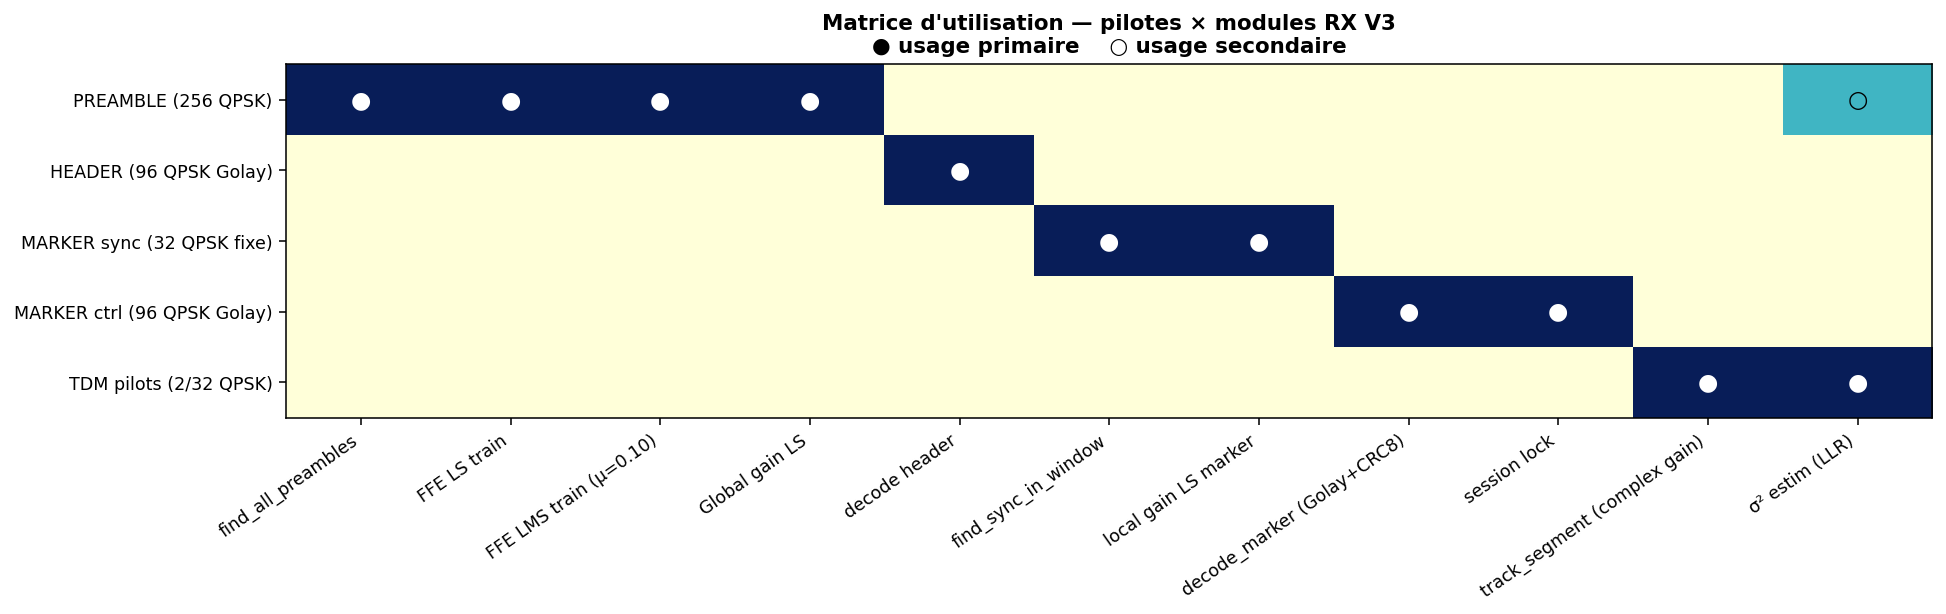
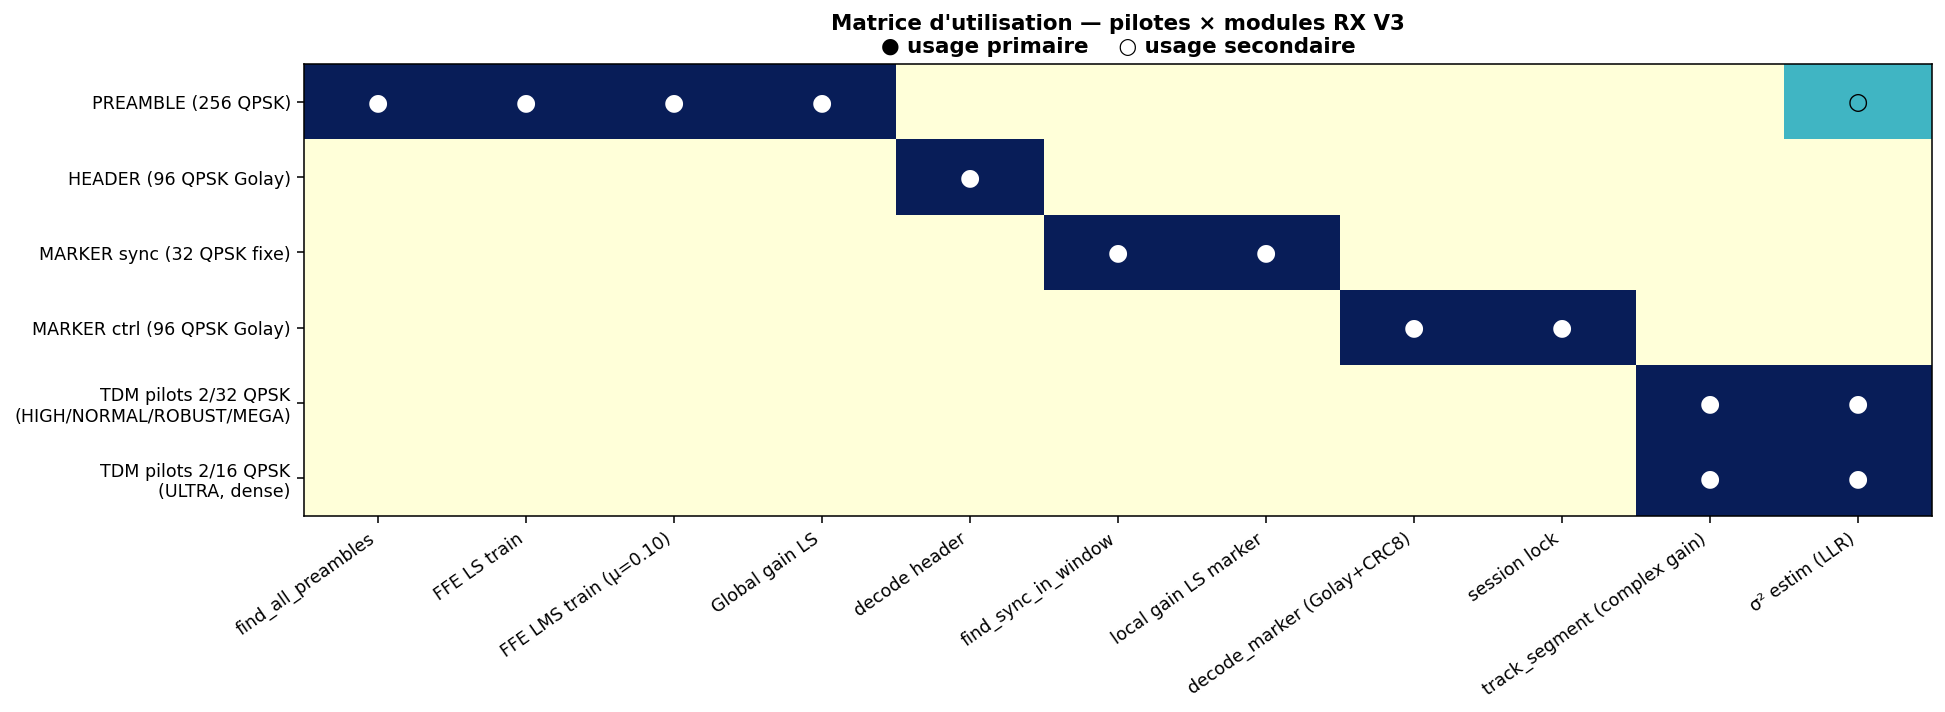
Doc v3 : débits modes corrigés + structure trame ULTRA (pilotes 2/16)
- Table débits HTML réalignée sur profile.rs courant :
  ULTRA 500 Bd QPSK 1/2 pilotes 2/16 (était 600 Bd),
  ROBUST 1000 Bd QPSK 1/2 (était 900 Bd 8-PSK),
  NORMAL 1500 Bd 8-PSK 1/2 (était 1200 Bd 16-APSK),
  HIGH 1500 Bd 16-APSK 3/4, MEGA 1600 Bd eff (τ=30/32) 16-APSK 3/4.
- Nouvelle section 2.2 "cas particulier ULTRA" : pourquoi le motif
  pilote est densifié (68 ms à 500 Bd sinon, drift sub-Nyquist),
  diagramme ASCII de la trame ULTRA, overhead 88.9 % vs 94.1 %.
- Callout sur le léger biais FTN de net_bitrate() (sous-estime MEGA
  de ~12 %, impact : barre de progression GUI uniquement).
- plot_pilots_matrix étendu : ajout d'une ligne dédiée pour le motif
  ULTRA dense, PNG régénéré.

Changed region(s): [[0.0, 0.0, 1.0, 0.9593], [0.8946, 0.1857, 1.0, 0.2476]]

diff --git a/docs/v3_architecture.html b/docs/v3_architecture.html
@@ -281,7 +281,7 @@
             <td><span class="swatch" style="background:#2bbfaf"></span><strong>TDM pilots</strong></td>
             <td>2 syms<br>par groupe de 32</td>
             <td>QPSK<br>cycle π/2</td>
-            <td>Séquence connue continue sur tout le segment. Insérés tous les <code>D_SYMS=32</code> data-syms.</td>
+            <td>Séquence connue continue sur tout le segment. Insérés tous les <code>d_syms=32</code> data-syms en HIGH/NORMAL/ROBUST/MEGA, et tous les <code>d_syms=16</code> en <strong>ULTRA</strong> (pilotes densifiés, voir §2.2).</td>
         </tr>
     </tbody>
 </table>
@@ -367,26 +367,45 @@
     config)</code> traite l'ensemble.
 </div>
 
-<p>Les autres profils varient uniquement <strong>data+meta</strong> :</p>
+<p>Les autres profils varient <strong>data+meta</strong> et, pour ULTRA seul,
+    le motif pilote :</p>
 
 <table>
     <thead>
         <tr>
             <th>Profil</th>
-            <th>Symbol rate</th>
+            <th>Symbol rate effectif</th>
             <th>Constellation data</th>
             <th>LDPC rate</th>
+            <th>Pilotes (D/P)</th>
             <th>Débit utile data</th>
         </tr>
     </thead>
     <tbody>
-        <tr><td>HIGH</td><td>1500 Bd</td><td>16-APSK</td><td>3/4</td><td>4500 b/s</td></tr>
-        <tr><td>NORMAL</td><td>1200 Bd</td><td>16-APSK</td><td>2/3</td><td>3200 b/s</td></tr>
-        <tr><td>ROBUST</td><td>900 Bd</td><td>8-PSK</td><td>1/2</td><td>1350 b/s</td></tr>
-        <tr><td>ULTRA</td><td>600 Bd</td><td>QPSK</td><td>1/2</td><td>600 b/s</td></tr>
-        <tr><td>MEGA (FTN)</td><td>1600 Bd (τ=30/32)</td><td>16-APSK</td><td>3/4</td><td>~4800 b/s</td></tr>
+        <tr><td>ULTRA</td><td>500 Bd</td><td>QPSK</td><td>1/2</td><td><strong>16/2</strong> dense</td><td>444 b/s</td></tr>
+        <tr><td>ROBUST</td><td>1000 Bd</td><td>QPSK</td><td>1/2</td><td>32/2</td><td>941 b/s</td></tr>
+        <tr><td>NORMAL</td><td>1500 Bd</td><td>8-PSK</td><td>1/2</td><td>32/2</td><td>2117 b/s</td></tr>
+        <tr><td>HIGH</td><td>1500 Bd</td><td>16-APSK</td><td>3/4</td><td>32/2</td><td>4234 b/s</td></tr>
+        <tr><td>MEGA (FTN)</td><td>1600 Bd (Rs=1500, τ=30/32)</td><td>16-APSK</td><td>3/4</td><td>32/2</td><td>4517 b/s</td></tr>
     </tbody>
 </table>
+
+<p>
+    Formule : <code>Débit utile = Rs<sub>eff</sub> × bits/sym × R<sub>LDPC</sub>
+    × D/(D+P)</code>. Pour MEGA, <code>Rs<sub>eff</sub> = Rs/τ = 1500 / (30/32) =
+    1600&nbsp;sps</code> car la FTN espace les symboles de <code>pitch=30</code>
+    samples (au lieu de 32) à <code>sps=32</code> — la bande RRC reste celle de
+    1500 Bd, on dense au-dessus de Nyquist (ISI rattrapée par FSE+DD-PLL côté
+    RX).
+</p>
+
+<div class="callout">
+    <strong>Note :</strong> la fonction Rust <code>ModemConfig::net_bitrate()</code>
+    multiplie par <code>τ</code> (au lieu de diviser) — elle sous-estime donc
+    MEGA d'environ 12 % (3969 b/s reportés vs 4517 b/s physiques). Utilisée
+    pour la barre de progression GUI uniquement, l'écart se traduit par une
+    durée annoncée légèrement plus longue que la réalité.
+</div>
 
 <p>
     Pour chaque profil, le symbol rate est <strong>fixé à la configuration</strong>
@@ -395,7 +414,7 @@
     des préambules QPSK supplémentaires, qui sortent eux aussi au même symbol rate.
 </p>
 
-<h3>2.1 Zoom — structure interne d'un data segment</h3>
+<h3>2.1 Zoom — structure interne d'un data segment (HIGH/NORMAL/ROBUST/MEGA)</h3>
 
 <pre><code>┌─ MK ─┬── groupe 0 ────────┬── groupe 1 ────────┬── groupe 2 ────────┬ …
 │ 128  │ 32 data   │ 2 pil  │ 32 data   │ 2 pil  │ 32 data   │ 2 pil  │
@@ -408,10 +427,61 @@
 </code></pre>
 
 <p>
-    Constantes : <code>D_SYMS = 32</code>, <code>P_SYMS = 2</code>, cycle pilote
+    Constantes par défaut : <code>d_syms = 32</code>, <code>p_syms = 2</code>
+    (<code>PilotPattern::default_v3</code>), cycle pilote
     <code>pilot_symbol(n) = exp(j · (n mod 4) · π/2)</code>
-    (<code>pilot.rs:11-14</code>).
+    (<code>pilot.rs:11-14</code>). À <code>Rs = 1500&nbsp;Bd</code>, l'écart
+    entre deux groupes pilotes est <code>34/1500 ≈ 22.7&nbsp;ms</code>.
 </p>
+
+<h3>2.2 Cas particulier ULTRA — pilotes densifiés (16/2)</h3>
+
+<p>
+    ULTRA tourne à <strong>500 Bd / QPSK</strong>, ce qui rend l'écart pilote
+    par défaut très long en temps : à 500 Bd, un groupe de 34 syms = <strong>68
+    ms</strong>. Cet espacement aliase les composantes sub-Nyquist du drift
+    horloge sound-card (mesuré à -16 ppm avec dérive thermique ±5 ppm sur 180 s),
+    et la boucle de tracking décroche en milieu de segment long.
+</p>
+
+<p>
+    Solution mise en place : un motif pilote dédié
+    <code>PilotPattern::dense_ultra</code> à <strong>16 data + 2 pilots</strong>,
+    soit un groupe pilote tous les <strong>36 ms</strong> à 500 Bd. La bande de
+    suivi du gain complexe est doublée, au prix d'un overhead pilote qui passe
+    de <code>32/34&nbsp;≈&nbsp;94.1 %</code> à <code>16/18&nbsp;≈&nbsp;88.9 %</code>
+    (5 % de débit utile en moins, largement compensés par la convergence
+    décodeur).
+</p>
+
+<pre><code>┌─ MK ─┬─ groupe 0 ──┬─ groupe 1 ──┬─ groupe 2 ──┬─ groupe 3 ──┬ …  (ULTRA)
+│ 128  │ 16 data │2p│ 16 data │2p│ 16 data │2p│ 16 data │2p│
+│ QPSK │ QPSK    │  │ QPSK    │  │ QPSK    │  │ QPSK    │  │
+└──────┴─────────┴──┴─────────┴──┴─────────┴──┴─────────┴──┘
+            ↑           ↑           ↑           ↑
+            36 ms entre deux groupes pilotes consécutifs
+            (vs 68 ms si on avait gardé le motif 32/2 par défaut)
+</code></pre>
+
+<p>
+    L'invariant est garanti par un test unitaire
+    (<code>profile.rs:368&nbsp;ultra_uses_dense_pilot_pattern</code>) : tout
+    autre profil que ULTRA <em>doit</em> rester sur <code>default_v3</code>.
+    Le pattern est transporté implicitement via le <code>profile_index</code>
+    (header octet 10) — il n'est pas dans le <code>mode_code</code>, donc le
+    RX reconstruit le bon pattern à partir du profil annoncé.
+</p>
+
+<div class="callout info">
+    <strong>Conséquence pour la trame complète :</strong> ULTRA a la même
+    structure de champs que les autres profils (préambule + header + marker +
+    meta/data segments), mais avec deux particularités&nbsp;:
+    <ul style="margin-top: 0.4rem;">
+        <li>tous les data-syms sont en QPSK (LDPC 1/2),</li>
+        <li>les groupes pilotes sont insérés deux fois plus souvent dans
+            chaque segment (motif 16/2).</li>
+    </ul>
+</div>
 
 <!-- ======================================================================= -->
 <h2 id="constellations">3. Constellations utilisées</h2>

diff --git a/study/v3_architecture_diagrams.py b/study/v3_architecture_diagrams.py
@@ -615,7 +615,8 @@ def plot_pilots_matrix(path):
         "HEADER (96 QPSK Golay)",
         "MARKER sync (32 QPSK fixe)",
         "MARKER ctrl (96 QPSK Golay)",
-        "TDM pilots (2/32 QPSK)",
+        "TDM pilots 2/32 QPSK\n(HIGH/NORMAL/ROBUST/MEGA)",
+        "TDM pilots 2/16 QPSK\n(ULTRA, dense)",
     ]
     modules = [
         "find_all_preambles",
@@ -641,12 +642,14 @@ def plot_pilots_matrix(path):
     usage[2, 6] = 2   # MARKER sync → local gain
     usage[3, 7] = 2   # MARKER ctrl → decode_marker
     usage[3, 8] = 2   # MARKER ctrl → session lock
-    usage[4, 9] = 2   # TDM → track_segment
-    usage[4, 10] = 2  # TDM → σ²
+    usage[4, 9] = 2   # TDM 2/32 → track_segment
+    usage[4, 10] = 2  # TDM 2/32 → σ²
+    usage[5, 9] = 2   # TDM 2/16 → track_segment (même rôle, cadence ×2)
+    usage[5, 10] = 2  # TDM 2/16 → σ²
     # Some secondary usages
     usage[0, 10] = 1  # PREAMBLE peut aussi servir à estim σ² fallback
 
-    fig, ax = plt.subplots(figsize=(14, 4.5))
+    fig, ax = plt.subplots(figsize=(14, 5.2))
     im = ax.imshow(usage, cmap="YlGnBu", aspect="auto", vmin=0, vmax=2)
     ax.set_xticks(range(len(modules)))
     ax.set_xticklabels(modules, rotation=35, ha="right", fontsize=9)
